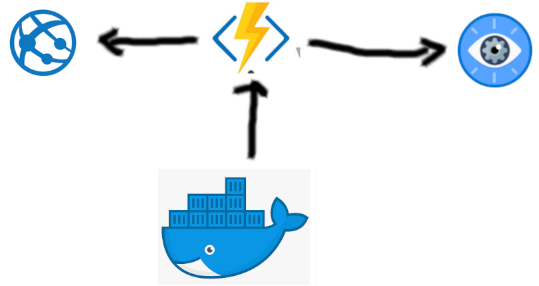
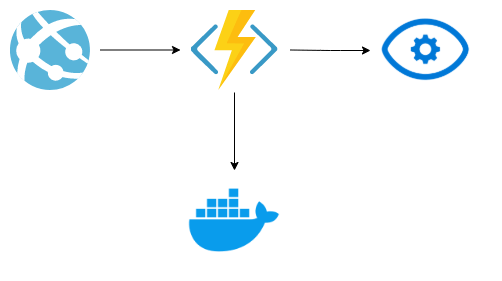
Fixes to readme

Changed region(s): [[0.0, 0.0, 1.0, 0.9964]]

diff --git a/README.md b/README.md
@@ -1,43 +1,42 @@
  # PROSTA SORTOWNIA 
-Projekt zakłada rozpoznawanie i oddzielanie butelek plastikowych od butelek szklanych i puszek. Butelki szklany będą jeszcze dodatkowo sortowanie pod wzgledem    koloru szkła. Jest to wstępna wersja projektu zakładajacego przyszłościowe rozdzielanie wyrzucanych śmieci na wysypiskach czy w sortowniach, aby zautomatyzować pracę. Jednakże projekt możnaby dalej także rozwinąć w automatycznego barmana lub przy większej liczbie obiektów w automatycznego sprzedawcę sklepowego.
+Projekt zakłada rozpoznawanie i oddzielanie butelek plastikowych od butelek szklanych i puszek. Butelki szklane będą jeszcze dodatkowo sortowane pod wzgledem koloru szkła. Jest to wstępna wersja projektu zakładajacego przyszłościowe rozdzielanie wyrzucanych śmieci na wysypiskach czy w sortowniach, aby zautomatyzować pracę. Jednakże projekt możnaby także rozwinąć w stronę automatycznego barmana lub przy większej liczbie obiektów w automatycznego sprzedawcę sklepowego.
 
 ### ZESPÓŁ
 
-- Magdalena Kuna
-github: https://github.com/MagdalenaKuna
-- Dawid Lubera
-github: https://github.com/Delpod
+- Magdalena Kuna - GithHub: https://github.com/MagdalenaKuna
+- Dawid Lubera - GitHub: https://github.com/Delpod
 
 ### ZADANIA
 
-1. porównanie - w projekcie zostaną porównane ze sobą działanie servisu Custom Vision na portalu Azure z naszym algorytmem napisanym z wykorzystaniem jezyka python oraz conajmniej jednej z biblitek: scikit-image/tensorflow/opencv. Porównaa zostanie jakość abu rozwiązań, szybkosć, poniesione koszta oraz zajętość pamięciowa. 
-2. wykrywanie obiektów - wykrywanie buletek i puszek na zdjęciu 
-3. selekcja - rozróżnienie i zetykietowanie obiektów
-4.douczanie - do przemyślenia 
+1. Porównanie - w projekcie porównane zostaną ze sobą działania serwisu Custom Vision na portalu Azure z naszym algorytmem napisanym z wykorzystaniem jezyka Python oraz conajmniej jednej z biblitek: OpenCV/TensorFlow/scikit-image. Porównana zostanie jakość abu rozwiązań, szybkosć, poniesione koszta oraz zajętość pamięciowa 
+2. Wykrywanie obiektów - wykrywanie buletek i puszek na zdjęciu 
+3. Selekcja - rozróżnienie i zetykietowanie obiektów
+4. Douczanie - do przemyślenia 
 
 ### SCHEMAT
-WARIANT 1: Wynik będzie pokazywany na stronie internetowej specjalnie stworzonej, tam też będzie można wgrać zdjecie. Następnie planujemy połączenie poprzez Function App do serwisu Custom Vision. Function App będzie się takze łaczyło z Dockerem na którym będzie nasz algorytm. 
+WARIANT 1: Wynik będzie pokazywany na specjalnie stworzonej stronie internetowej, gdzie będzie można wgrać zdjęcie i uzyskać wyniki z obu rozwiązań. Z naszego algorytmu będzie można skorzystać z pomocą aplikacji napisanej z użyciem biblioteki Flask, która będzie w kontenerze Dockera. Połączenie strona - Custom Vision i strona - Docker planujemy rozwiązać z pomocą Fuction App. 
 
-WARIANT 2: Wytrenowany model z serwisu Custom Vision ściągamy, aby używac go lokalnie - ściaga się do tensorflow. 
+WARIANT 2: Wytrenowany model z serwisu Custom Vision ściągamy, aby używac go lokalnie - używa  się go w TensorFlow.
 
 ### ARCHITEKTURA
 Wariant 1: 
 
-![alt text](https://github.com/ProjektCustomVisionKL/projekt-custom-vision-kl/blob/master/W1.png)
+![Wariant 1 - sieciowy](W1.png)
 
 Wariant 2: 
 
-![alt text](https://github.com/ProjektCustomVisionKL/projekt-custom-vision-kl/blob/master/W2.png)
+![Wariant 2 - lokalny](W2.png)
 
 ### TECHNOLOGIE
-- servis Custom Vision - Azure
- - scikit-image/tensorflow/opencv
- - docker
+- Custom Vision Service - Azure
+- OpenCV/TensorFlow/scikit-image
+- Docker
+- App Service
 
 ### PLAN 
 1. Znalezienie zdjęć - Dawid - do 13.12
 2. Nauczenie Custom vision - Magda + Dawid - 30.12
-3. Opracowanie własnego algorytmu - Magda + Dawid - 8.01
+3. Opracowanie własnego algorytmu - Magda + Dawid - 08.01
 4. Wstępny 2 check-point do potwierdzenia - 10.01
 5. Posklejanie wszystkiego w całość + prezentacja - Magda - 16.10 
-6. Przedstawienie wyników pracy.
+6. Przedstawienie wyników pracy
